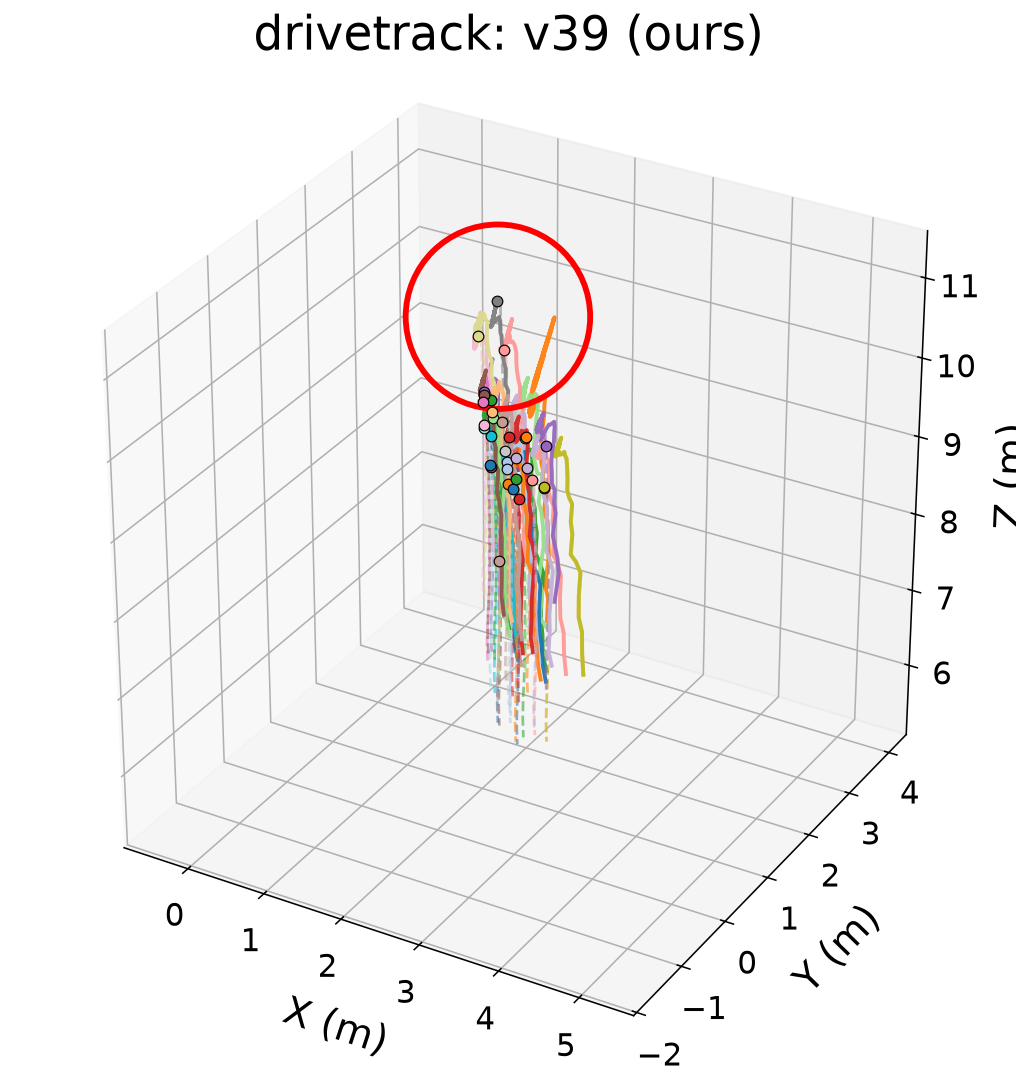
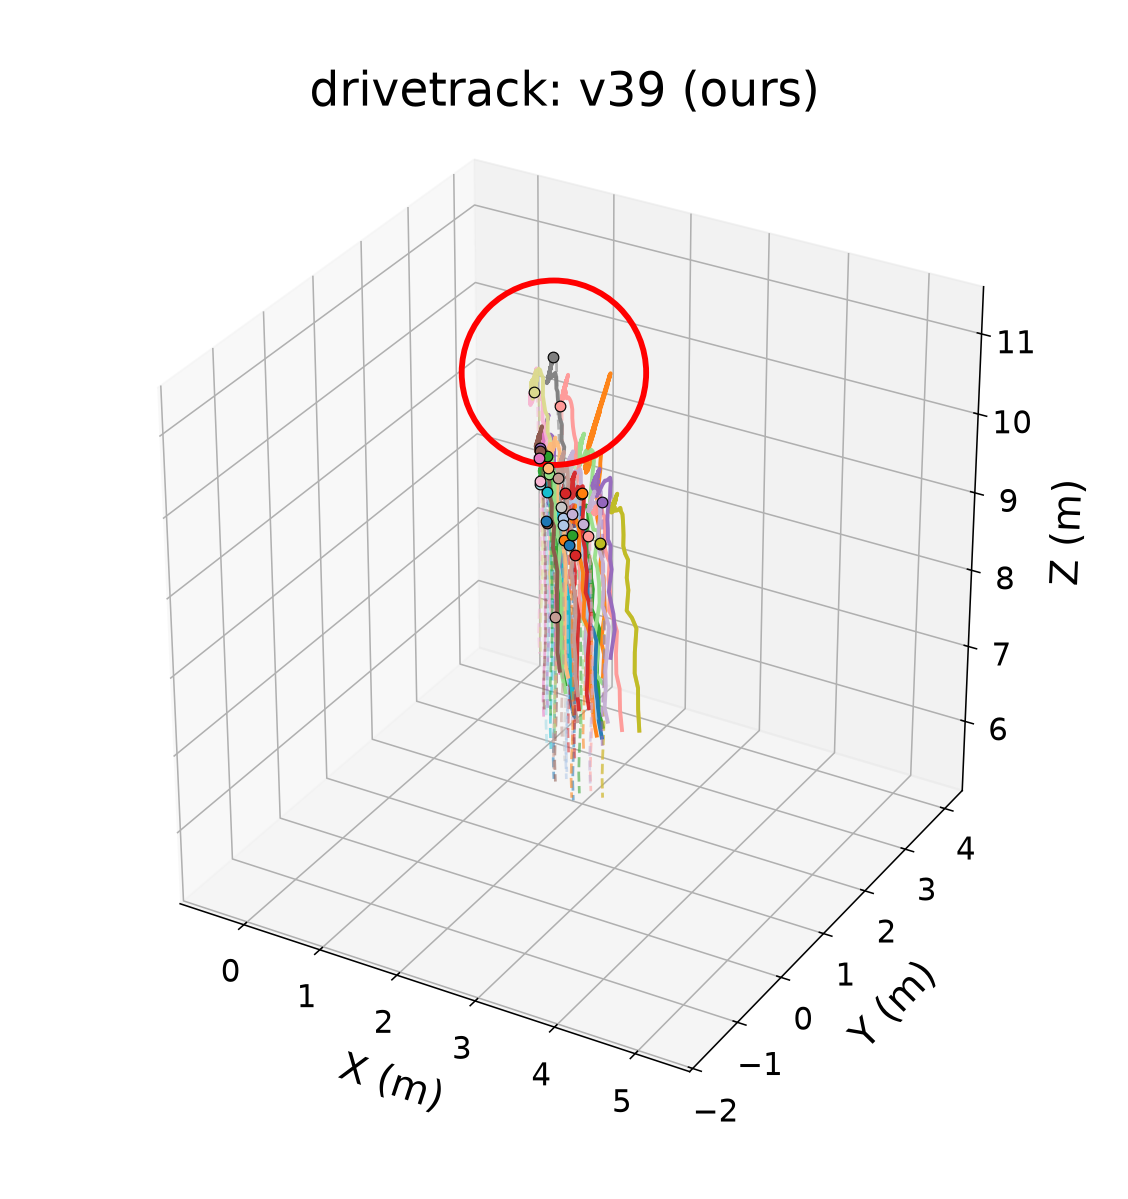
doc: fix clipped Z-axis label in qual figs 14-16 (real cause: PNG-level clip)
matplotlib's bbox_inches="tight" under-measures the rotated 3D "Z (m)" label for
mplot3d and trimmed it flush to the PNG edge (raw PNG content touched the last
column, gap=0 px; the label's outer half was cut, reading as "7 (m)"). Add
pad_inches=0.5 to the figure save so the label sits fully inside with a margin
(right-edge gap now 41 px). Revert the earlier \textwidth->0.9\linewidth
band-aid (it couldn't recover pixels already clipped inside the PNG); figures are
full size again. Verified in the rebuilt PDF: "Z (m)" renders in full.

diff --git a/doc/vmamba3_3dpointtrack/vmamba3_3dpointtrack.tex b/doc/vmamba3_3dpointtrack/vmamba3_3dpointtrack.tex
@@ -2386,10 +2386,10 @@ volume entirely, while v39 keeps the tracks on the true metric depth.
 \begin{figure}[h]
 \centering
 \begin{minipage}{0.49\textwidth}\centering
-  \includegraphics[width=0.9\linewidth]{figs/qual_pstudio_delta_3d.png}\\{\footnotesize DELTA+DA3-l (SOTA)}
+  \includegraphics[width=\textwidth]{figs/qual_pstudio_delta_3d.png}\\{\footnotesize DELTA+DA3-l (SOTA)}
 \end{minipage}\hfill
 \begin{minipage}{0.49\textwidth}\centering
-  \includegraphics[width=0.9\linewidth]{figs/qual_pstudio_v39_3d.png}\\{\footnotesize v39 (ours)}
+  \includegraphics[width=\textwidth]{figs/qual_pstudio_v39_3d.png}\\{\footnotesize v39 (ours)}
 \end{minipage}
 \caption{pstudio (indoor, $\sim$3\,m), best v39 clip \texttt{boxes\_5} (v39 absolute metric-AJ $0.485$ vs
 DELTA $0.335$): predicted (solid) vs ground-truth (dashed) 3D trajectories, DELTA$+$DA3-l (left) vs v39 (right).
@@ -2402,10 +2402,10 @@ depth the SOTA misses.}
 \begin{figure}[h]
 \centering
 \begin{minipage}{0.49\textwidth}\centering
-  \includegraphics[width=0.9\linewidth]{figs/qual_drivetrack_delta_3d.png}\\{\footnotesize DELTA+DA3-l (SOTA)}
+  \includegraphics[width=\textwidth]{figs/qual_drivetrack_delta_3d.png}\\{\footnotesize DELTA+DA3-l (SOTA)}
 \end{minipage}\hfill
 \begin{minipage}{0.49\textwidth}\centering
-  \includegraphics[width=0.9\linewidth]{figs/qual_drivetrack_v39_3d.png}\\{\footnotesize v39 (ours)}
+  \includegraphics[width=\textwidth]{figs/qual_drivetrack_v39_3d.png}\\{\footnotesize v39 (ours)}
 \end{minipage}
 \caption{drivetrack (driving, far-field), best v39 clip (v39 absolute metric-AJ $0.398$ vs DELTA $0.002$): the
 scene where v39 beats the SOTA most. Predicted (solid) vs ground-truth (dashed), DELTA$+$DA3-l (left) vs v39
@@ -2420,10 +2420,10 @@ source of our absolute-metric-AJ win on drivetrack.}
 \begin{figure}[h]
 \centering
 \begin{minipage}{0.49\textwidth}\centering
-  \includegraphics[width=0.9\linewidth]{figs/qual_adt_delta_3d.png}\\{\footnotesize DELTA+DA3-l (SOTA)}
+  \includegraphics[width=\textwidth]{figs/qual_adt_delta_3d.png}\\{\footnotesize DELTA+DA3-l (SOTA)}
 \end{minipage}\hfill
 \begin{minipage}{0.49\textwidth}\centering
-  \includegraphics[width=0.9\linewidth]{figs/qual_adt_v39_3d.png}\\{\footnotesize v39 (ours)}
+  \includegraphics[width=\textwidth]{figs/qual_adt_v39_3d.png}\\{\footnotesize v39 (ours)}
 \end{minipage}
 \caption{adt (egocentric, near-field), best v39 clip \texttt{Lite\_release\_recognition\_WoodenBoxSmall\_seq031\_2}
 (v39 absolute metric-AJ $0.503$ vs DELTA $0.481$): near-field, where DA3-l depth is already accurate so both

diff --git a/scripts/render_qual_3d.py b/scripts/render_qual_3d.py
@@ -175,7 +175,9 @@ def _render_3d(
     ax.tick_params(labelsize=16)
     ax.set_title(title)  # short
     fig.tight_layout()
-    fig.savefig(out_path, dpi=140, bbox_inches="tight")
+    # pad_inches leaves whitespace so the rotated 3D "Z (m)" label (which
+    # bbox_inches="tight" under-measures for mplot3d) is not clipped at the edge.
+    fig.savefig(out_path, dpi=140, bbox_inches="tight", pad_inches=0.5)
     plt.close(fig)
     print(f"[qual] wrote {out_path}")
 
@@ -215,7 +217,9 @@ def _render_st(gt, pred, vis, out_path: Path, title: str) -> None:
         )
     fig.suptitle(title)
     fig.tight_layout()
-    fig.savefig(out_path, dpi=140, bbox_inches="tight")
+    # pad_inches leaves whitespace so the rotated 3D "Z (m)" label (which
+    # bbox_inches="tight" under-measures for mplot3d) is not clipped at the edge.
+    fig.savefig(out_path, dpi=140, bbox_inches="tight", pad_inches=0.5)
     plt.close(fig)
     print(f"[qual] wrote {out_path}")
 
